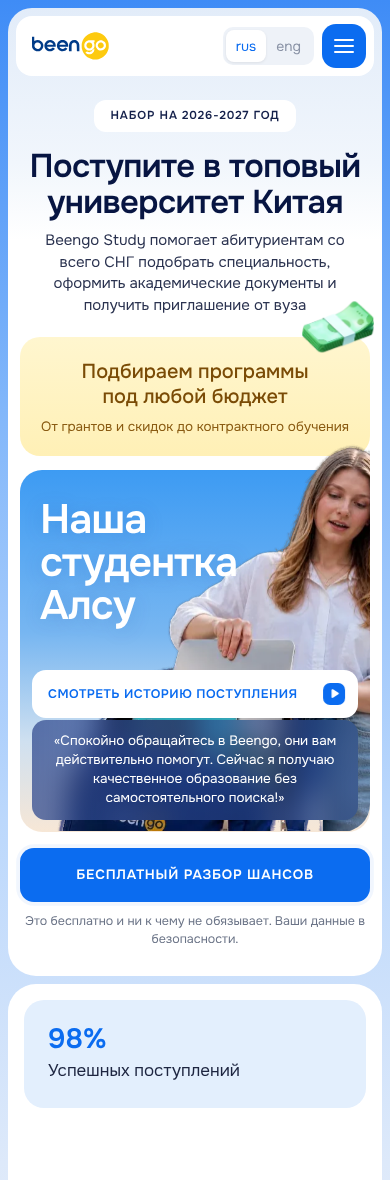
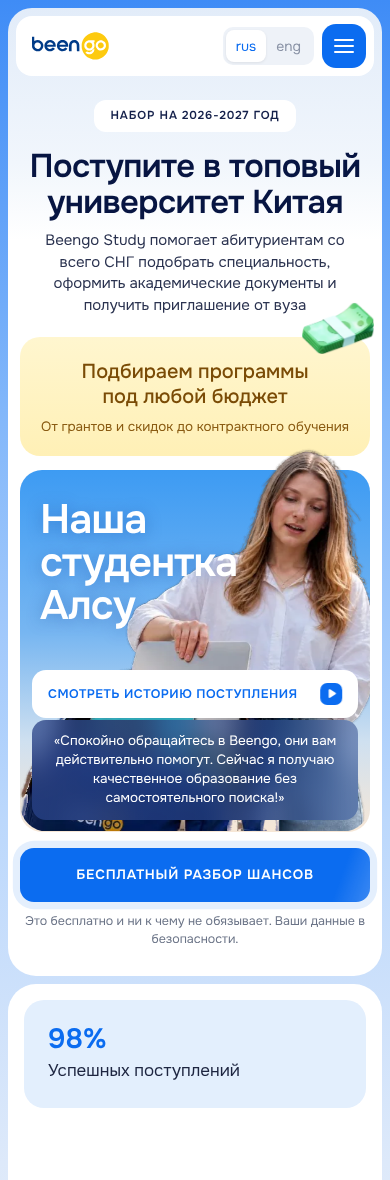
Hero: center Alsu on mobile, equal-width budget/card/button on tablet
Claude-Session: https://claude.ai/code/session_01DveQThDXrjAqWsCdBVYsEN

diff --git a/index.html b/index.html
@@ -2097,6 +2097,21 @@ html,body{overflow-x:clip!important}
 .side.in-view .item{opacity:1;transform:none}
 @media (prefers-reduced-motion:reduce){.item{opacity:1!important;transform:none!important}}
 @media (min-width:681px) and (max-width:980px){.hero-card h2{text-align:left!important;left:7%!important}}
+
+/* ===== Пакет правок 11 ===== */
+/* телефон: Алсу целиком, ближе к центру карточки */
+@media (max-width:680px){
+  .hero-clip{top:-6%!important;left:0!important;right:0!important}
+  .hero-clip img{height:100%!important;width:auto!important;right:auto!important;left:50%!important;translate:-50% 0!important}
+  .hero-card h2{text-shadow:0 2px 16px rgba(20,60,150,.35)}
+}
+/* планшет: плашка, карточка Алсу и кнопка одной ширины */
+@media (min-width:681px) and (max-width:980px){
+  .hero-text .budget,.hero-card,.hero-text .btn{width:100%!important;max-width:600px!important;margin-left:auto!important;margin-right:auto!important}
+  .hero-text > p{max-width:600px;margin-left:auto;margin-right:auto}
+  .hero-card{margin-top:8px!important}
+  .hero-text .btn{margin-top:16px!important}
+}
 </style>
 </head>
 <body>
